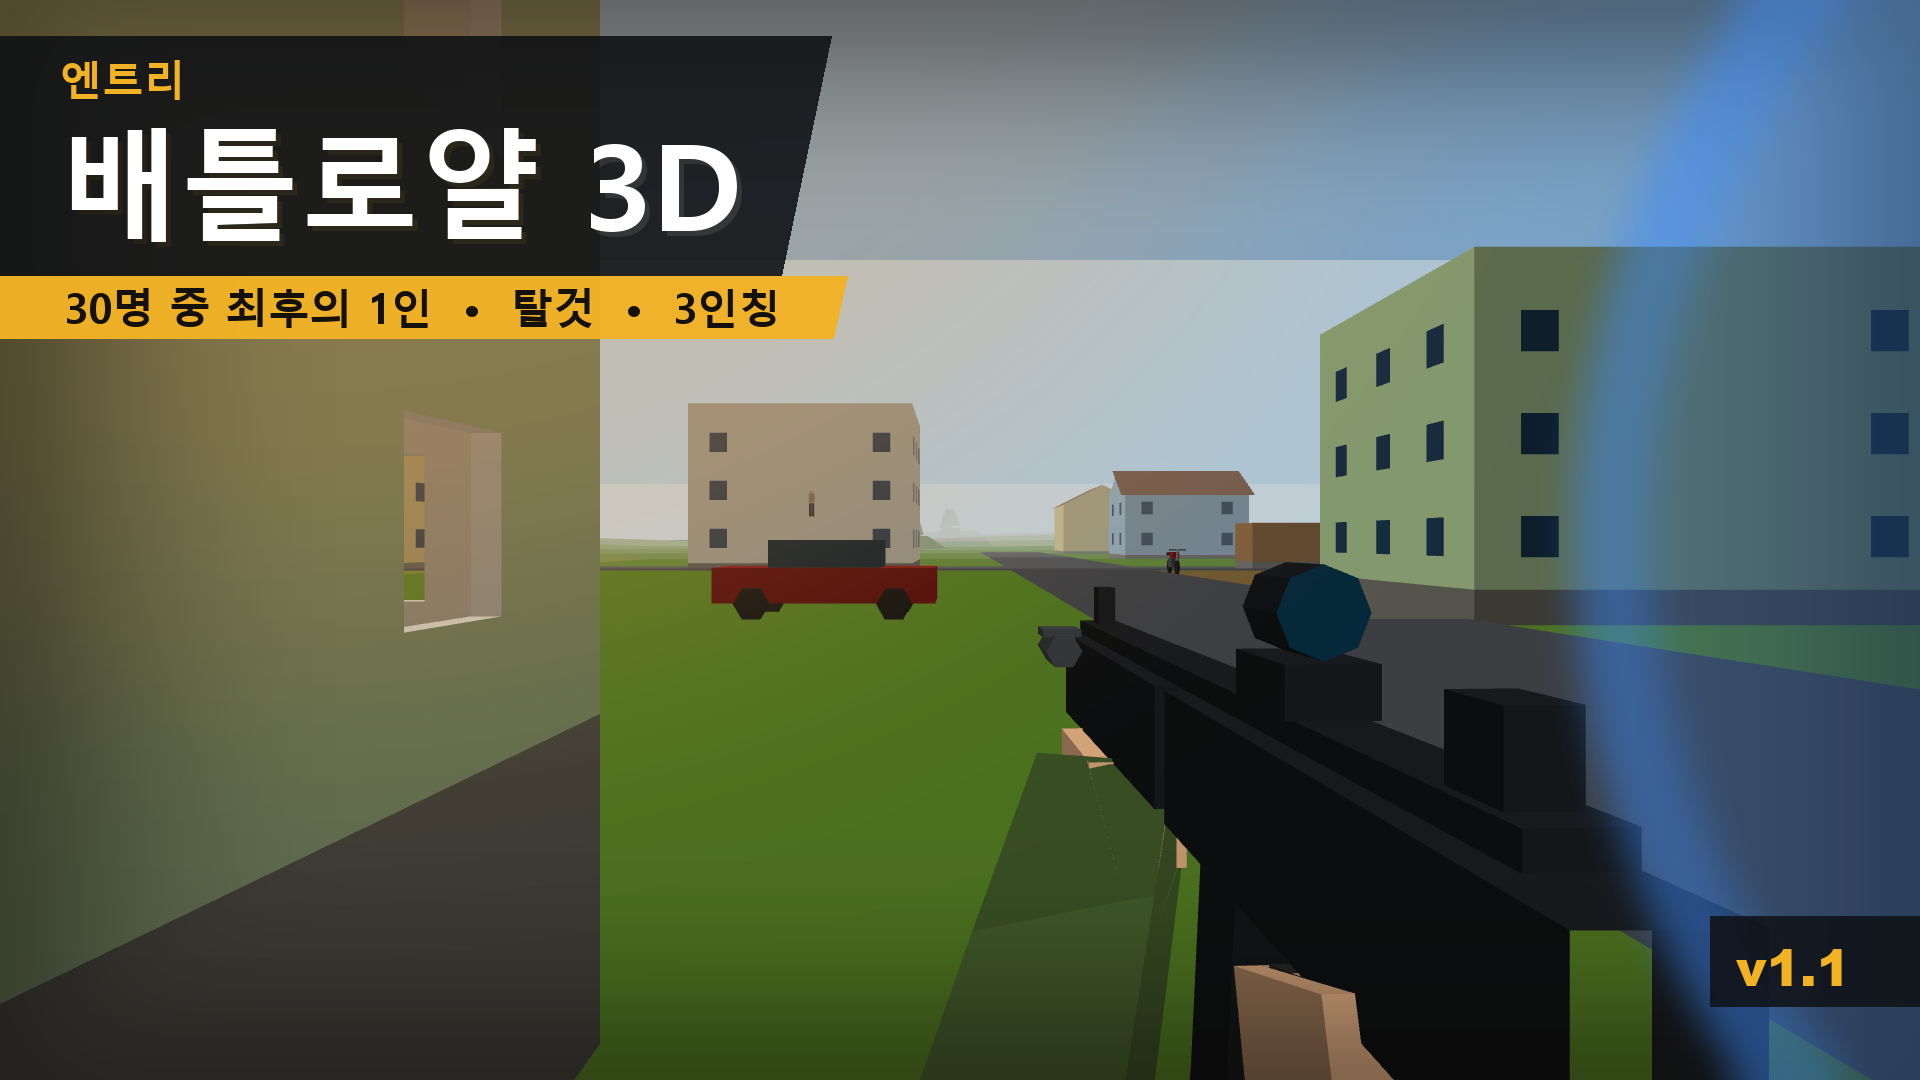
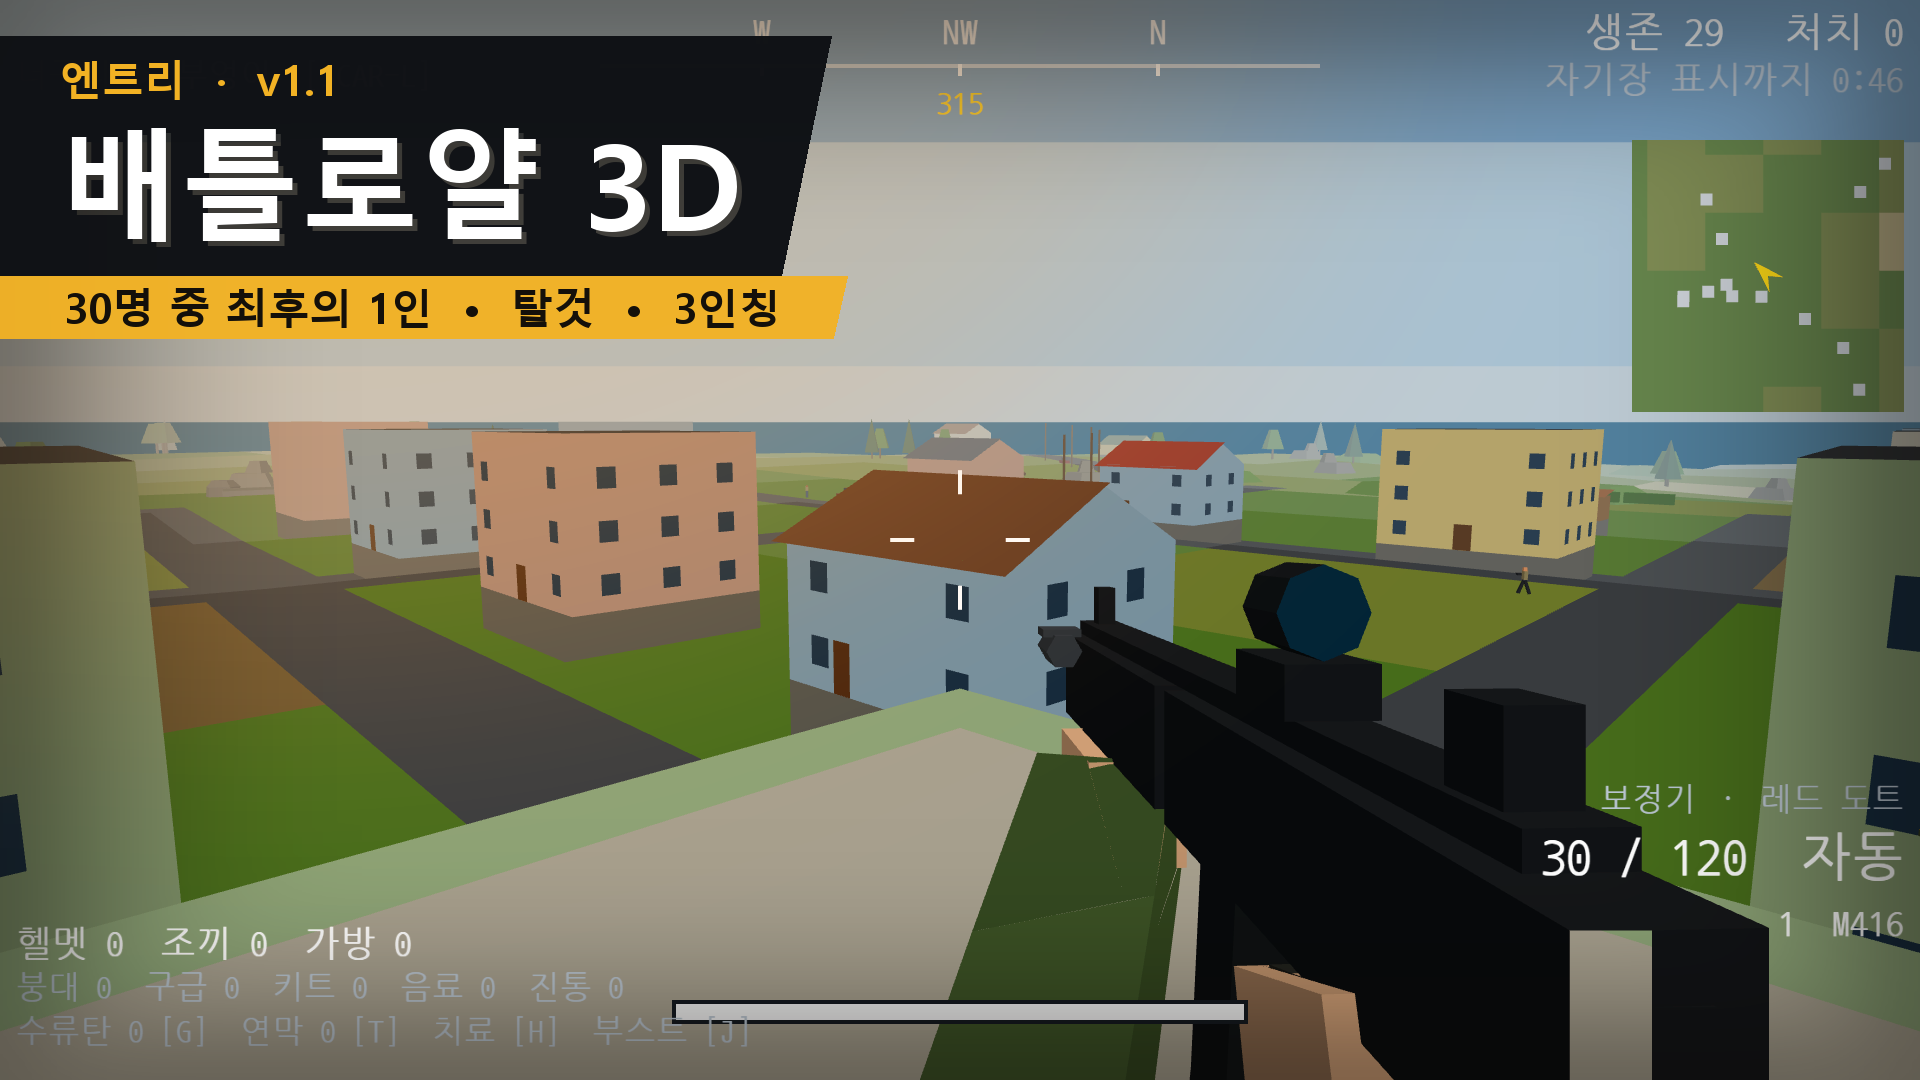
Entry Battle Royale 3D v1.1: the thumbnail is the game's own screen, over the town from a rooftop

diff --git a/_work/br/thumb/edit_thumb.py b/_work/br/thumb/edit_thumb.py
@@ -1,7 +1,9 @@
 from PIL import Image, ImageDraw, ImageFont, ImageEnhance, ImageFilter
 import sys
-# usage: python edit_thumb.py raw.png out.png
+# usage: python edit_thumb.py raw.png out.png [hud]
+# hud: the shot has the game's HUD on, so leave its right side (minimap, ammo) clear
 src, out = sys.argv[1], sys.argv[2]
+hud = len(sys.argv) > 3 and sys.argv[3] == 'hud'
 im = Image.open(src).convert('RGB')
 W, H = im.size
 # warmer, punchier colour
@@ -26,8 +28,8 @@ im = Image.composite(Image.new('RGB', (W, H), (10, 8, 6)), im, mask)
 ov = Image.new('RGBA', (W, H), (0, 0, 0, 0))
 zm = Image.new('L', (W, H), 0)
 zd = ImageDraw.Draw(zm)
-zd.ellipse([W * 0.82, -H * 0.6, W * 2.4, H * 1.6], fill=120)
-zd.ellipse([W * 0.86, -H * 0.5, W * 2.4, H * 1.5], fill=60)
+if not hud: zd.ellipse([W * 0.82, -H * 0.6, W * 2.4, H * 1.6], fill=120)
+if not hud: zd.ellipse([W * 0.86, -H * 0.5, W * 2.4, H * 1.5], fill=60)
 zm = zm.filter(ImageFilter.GaussianBlur(18))
 ov.paste((60, 140, 255, 255), (0, 0), zm)
 im = Image.alpha_composite(im.convert('RGBA'), ov)
@@ -40,11 +42,11 @@ sub = ImageFont.truetype('C:/Windows/Fonts/malgunbd.ttf', 42)
 x0, y0 = 60, 56
 title = '배틀로얄 3D'
 tw = o.textlength(title, font=kr)
-top = '엔트리'
+top = '엔트리  ·  v1.1' if hud else '엔트리'
 st = '30명 중 최후의 1인  •  탈것  •  3인칭'
 sw = o.textlength(st, font=sub)
 bw2 = max(tw + 40, sw + 70)
-o.polygon([(0, y0 - 20), (x0 + tw + 90, y0 - 20), (x0 + tw + 40, y0 + 220), (0, y0 + 220)], fill=(14, 16, 20, 225))
+o.polygon([(0, y0 - 20), (x0 + tw + 90, y0 - 20), (x0 + tw + 40, y0 + 220), (0, y0 + 220)], fill=(14, 16, 20, 250 if hud else 225))
 o.polygon([(0, y0 + 220), (x0 + bw2, y0 + 220), (x0 + bw2 - 14, y0 + 282), (0, y0 + 282)], fill=(242, 178, 36, 245))
 o.text((x0, y0 - 6), top, font=sub, fill=(242, 178, 36, 255))
 o.text((x0 + 5, y0 + 49), title, font=kr, fill=(0, 0, 0, 170))
@@ -54,8 +56,9 @@ o.text((x0 + 4, y0 + 222), st, font=sub, fill=(20, 16, 10, 255))
 bt = 'v1.1'
 bw = o.textlength(bt, font=black)
 bx, by = W - bw - 70, H - 150
-o.rectangle([bx - 26, by - 14, W, by + 76], fill=(14, 16, 20, 215))
-o.text((bx, by), bt, font=black, fill=(242, 178, 36, 255))
+if not hud:
+    o.rectangle([bx - 26, by - 14, W, by + 76], fill=(14, 16, 20, 215))
+    o.text((bx, by), bt, font=black, fill=(242, 178, 36, 255))
 im = Image.alpha_composite(im, ov).convert('RGB')
 im.save(out, optimize=True)
 print(out, im.size)

diff --git a/_work/br/HANDOFF.md b/_work/br/HANDOFF.md
@@ -19,7 +19,9 @@
   - `thK` 1: 자유 카메라(`thX..thP`)를 쓰고 HUD를 끈다.
 - **썸네일**: 루트 `엔트리 배틀로얄 3D 썸네일.png`(1920×1080)
   - `thumb/shot.mjs`: BENCH=1 빌드에서 2배 해상도 스틸을 찍는다. `thumb/shots_fp.json`은 1인칭 후보 8장이다.
-  - `thumb/edit_thumb.py`: 색 보정, 비네트, 자기장 테두리, 제목을 넣는다. 원본은 `thumb/town_raw.png`(f3)다.
+  - `thumb/edit_thumb.py`: 색 보정, 비네트, 제목을 넣는다. `hud` 인자를 주면 오른쪽 HUD(미니맵·탄약)를 가리지 않는다.
+  - 지금 썸네일은 HUD가 켜진 인게임 화면이다. 도시 한가운데 3층 건물(apart) 옥상 모서리에서 북서쪽을 봤다. 원본은 `thumb/roof_raw.png`(`shots_roof.json`의 q5)다. 그래픽은 높음(시야 12칸)이다.
+  - `shot.mjs`의 `inst: [pf, lx, ly, lz, yaw, pitch]`는 도시 중심에서 가까운 인스턴스에 플레이어를 둔다. `thK`는 쓰지 않으므로 화면은 실제 게임 그대로다.
 
 ## v1.1 (2026-10-26)
 사용자 요청: "변수개수와 리스트의 항목수가 너무 많아서 엔트리 온라인에서 저장이 불가능한 상태야. 데이터를 압축해서 저장하고 실행하면 처음에 불러오는 방식으로 만들어줘. 그리고 현재 게임을 시작하고 비행기에서 내리려면 마우스 고정을 푼다음에 다시 고정하고, f키를 눌러야 내려져. 이 버그를 해결해줘. 그리고 자기장이 생겼을때 벽을 관통해서 보이는 버그를 수정하고, 나무,돌,언덕 등의 엄폐물을 많이 추가해줘. 탈것도 3종류 이상 추가해줘(레이싱 게임 참고해도 됨) 그리고 3인칭 시점도 추가하고 AI가 게임을 더 잘하게 해줘."
